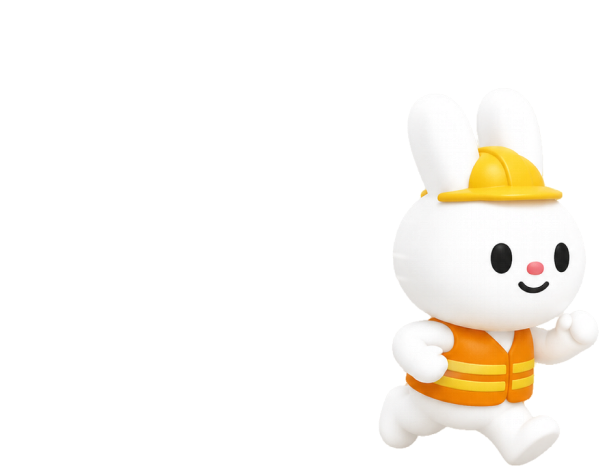
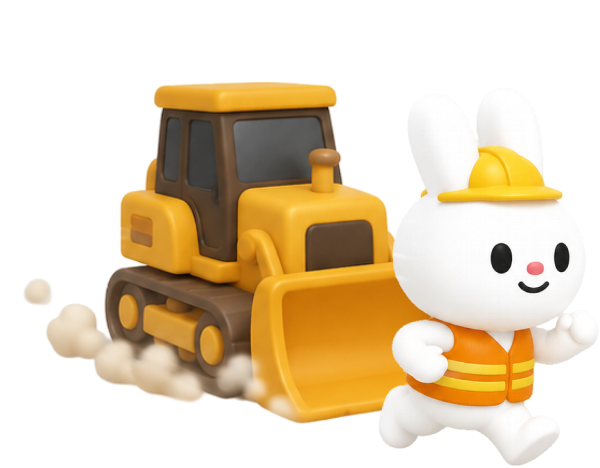
fix: 월간 리캡 화면의 도형, 캐릭터, 배경 무늬 수정 #135

Changed region(s): [[0.06, 0.1496, 0.72, 0.9274], [0.03, 0.5983, 0.09, 0.6581]]

diff --git a/src/app/recaps/_components/recap-pattern.tsx b/src/app/recaps/_components/recap-pattern.tsx
@@ -12,30 +12,58 @@ interface RecapPatternProps {
   color: string;
 }
 
-const ROW_GAP: Record<RecapPatternKind, number> = {
-  fire: 124,
-  square: 114,
-  bolt: 114,
-  circle: 114,
+/**
+ * 무늬 한 줄의 크기와 자리입니다.
+ *
+ * 첫 줄은 캐릭터 그림이 시작하는 자리에 놓고 `rowGap`만큼 내려갑니다. `offsets`는 줄마다
+ * 화면 가운데에서 얼마나 밀렸는지입니다. 유형마다 시안이 다르게 배치해서 값을 그대로 옮겨 둡니다.
+ */
+const PATTERNS: Record<
+  RecapPatternKind,
+  {
+    readonly width: number;
+    readonly height: number;
+    readonly rowGap: number;
+    readonly offsets: readonly number[];
+  }
+> = {
+  fire: {
+    width: 60,
+    height: 60,
+    rowGap: 124,
+    offsets: [-3, 57, -3, -85, -3, -85, -3],
+  },
+  square: {
+    width: 50,
+    height: 50,
+    rowGap: 114,
+    offsets: [-34, 35, -34, 35, -34, 35, -34],
+  },
+  bolt: {
+    width: 42,
+    height: 50,
+    rowGap: 114,
+    offsets: [-33, 32, -33, 32, -33, 32, -33],
+  },
+  circle: {
+    width: 50,
+    height: 50,
+    rowGap: 114,
+    offsets: [-32, 32, -32, 32, -32, 32, -32],
+  },
 };
-
-const SIZE: Record<RecapPatternKind, number> = {
-  fire: 60,
-  square: 50,
-  bolt: 50,
-  circle: 50,
-};
-
-const ROW_COUNT = 7;
 
 const COLUMN_GAP = 82;
 
+const MARKS_PER_ROW = 3;
+
 function PatternMark({ kind, color }: RecapPatternProps) {
-  const size = SIZE[kind];
+  const { width, height } = PATTERNS[kind];
+
   if (kind === "square" || kind === "circle") {
     return (
       <span
-        style={{ width: size, height: size, backgroundColor: color }}
+        style={{ width, height, backgroundColor: color }}
         className={`block shrink-0 ${kind === "circle" ? "rounded-full" : ""}`}
       />
     );
@@ -44,7 +72,7 @@ function PatternMark({ kind, color }: RecapPatternProps) {
   return (
     <svg
       viewBox={kind === "fire" ? "0 0 60 60" : "0 0 42 50"}
-      style={{ width: size, height: size }}
+      style={{ width, height }}
       className="block shrink-0"
       aria-hidden="true"
     >
@@ -56,27 +84,29 @@ function PatternMark({ kind, color }: RecapPatternProps) {
 /**
  * 화면 뒤에 깔리는 무늬입니다.
  *
- * 세 개씩 한 줄로 두고 줄마다 좌우로 어긋나게 배치합니다.
+ * 캐릭터 그림이 시작하는 자리부터 일곱 줄을 놓고, 줄마다 좌우로 어긋나게 둡니다.
  */
 export function RecapPattern({ kind, color }: RecapPatternProps) {
+  const pattern = PATTERNS[kind];
+
   return (
     <div
       aria-hidden="true"
-      className="pointer-events-none absolute inset-x-0 top-[305px] overflow-hidden"
+      className="pointer-events-none absolute inset-x-0 top-[calc(env(safe-area-inset-top)+243px)] bottom-0 overflow-hidden"
     >
-      {Array.from({ length: ROW_COUNT }, (_, row) => (
+      {pattern.offsets.map((offset, row) => (
         <div
           key={row}
           style={{
-            marginTop: row === 0 ? 0 : ROW_GAP[kind] - SIZE[kind],
-            transform: `translateX(${row % 2 === 0 ? -36 : 24}px)`,
+            top: row * pattern.rowGap,
+            left: `calc(50% + ${offset}px)`,
             gap: COLUMN_GAP,
           }}
-          className="flex items-center justify-center"
+          className="absolute flex -translate-x-1/2 items-center"
         >
-          <PatternMark kind={kind} color={color} />
-          <PatternMark kind={kind} color={color} />
-          <PatternMark kind={kind} color={color} />
+          {Array.from({ length: MARKS_PER_ROW }, (_, column) => (
+            <PatternMark key={column} kind={kind} color={color} />
+          ))}
         </div>
       ))}
     </div>

diff --git a/src/app/recaps/_components/recap-theme.ts b/src/app/recaps/_components/recap-theme.ts
@@ -21,6 +21,8 @@ export interface RecapTheme {
   readonly pattern: { readonly kind: RecapPatternKind; readonly color: string };
   /** 유형을 나타내는 캐릭터입니다. */
   readonly character: StaticImageData;
+  /** 캐릭터 그림의 왼쪽과 아래 여백입니다. 그림마다 크기가 달라 유형마다 다릅니다. */
+  readonly characterBox: { readonly left: number; readonly bottom: number };
 }
 
 const THEMES: Record<string, RecapTheme> = {
@@ -29,24 +31,28 @@ const THEMES: Record<string, RecapTheme> = {
     shapes: { star: "#ffd1b6", circle: "#ffca7a", cross: "#ffdea1" },
     pattern: { kind: "fire", color: "rgba(255,255,255,0.35)" },
     character: bulldozerImage,
+    characterBox: { left: 30, bottom: 40 },
   },
   "꾸준형 토끼": {
     gradient: ["#57cefd", "#b5e4b4"],
     shapes: { star: "#bffaf6", circle: "#c8ffdd", cross: "#c3eb9f" },
     pattern: { kind: "square", color: "rgba(173,231,253,0.3)" },
     character: steadyImage,
+    characterBox: { left: 45, bottom: 0 },
   },
   "단기 집중형 토끼": {
     gradient: ["#50ae43", "#e0c13a"],
     shapes: { star: "#c9e777", circle: "#a2e594", cross: "#f6eb90" },
     pattern: { kind: "bolt", color: "rgba(194,255,166,0.2)" },
     character: sprintImage,
+    characterBox: { left: 45, bottom: 0 },
   },
   "탐색형 토끼": {
     gradient: ["#8f43ad", "#e06f3a"],
     shapes: { star: "#fd92d6", circle: "#fa9b94", cross: "#ffcab3" },
     pattern: { kind: "circle", color: "rgba(190,69,237,0.3)" },
     character: explorerImage,
+    characterBox: { left: 45, bottom: 0 },
   },
 };
 
